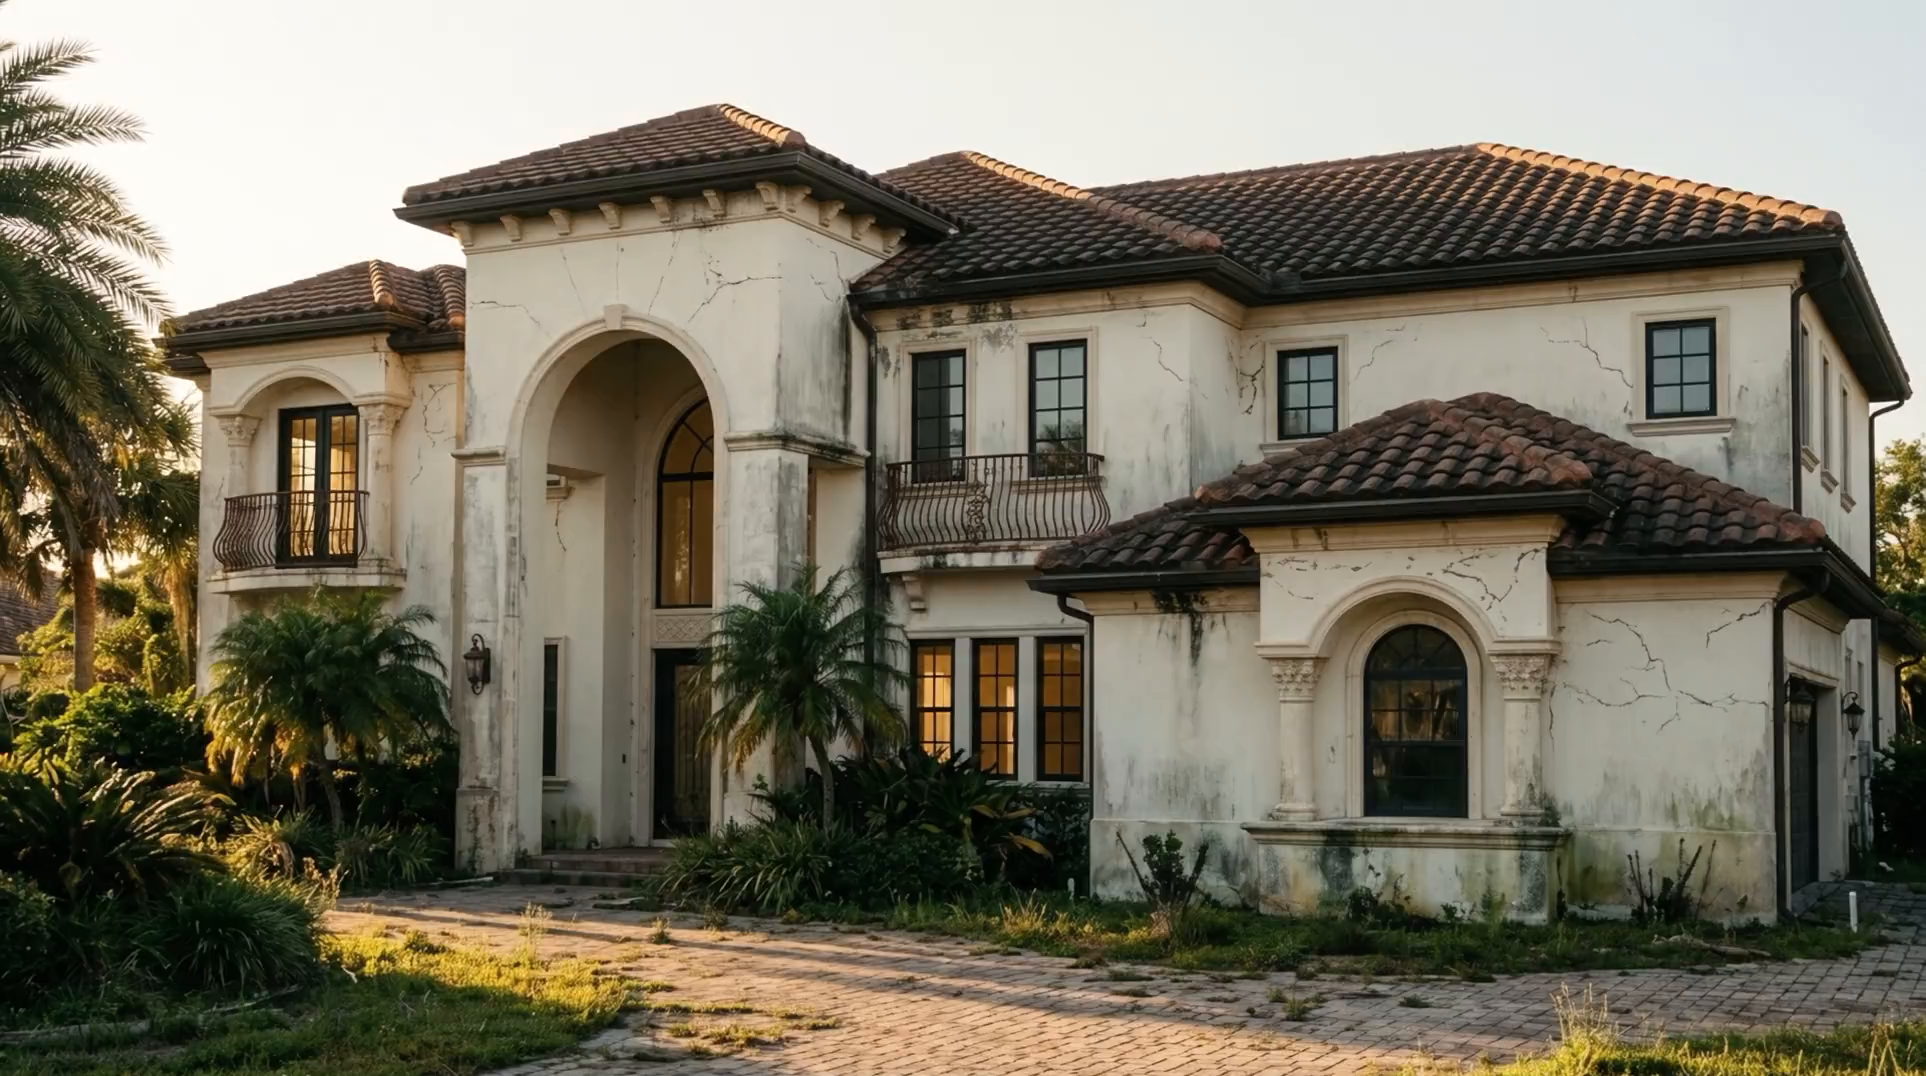
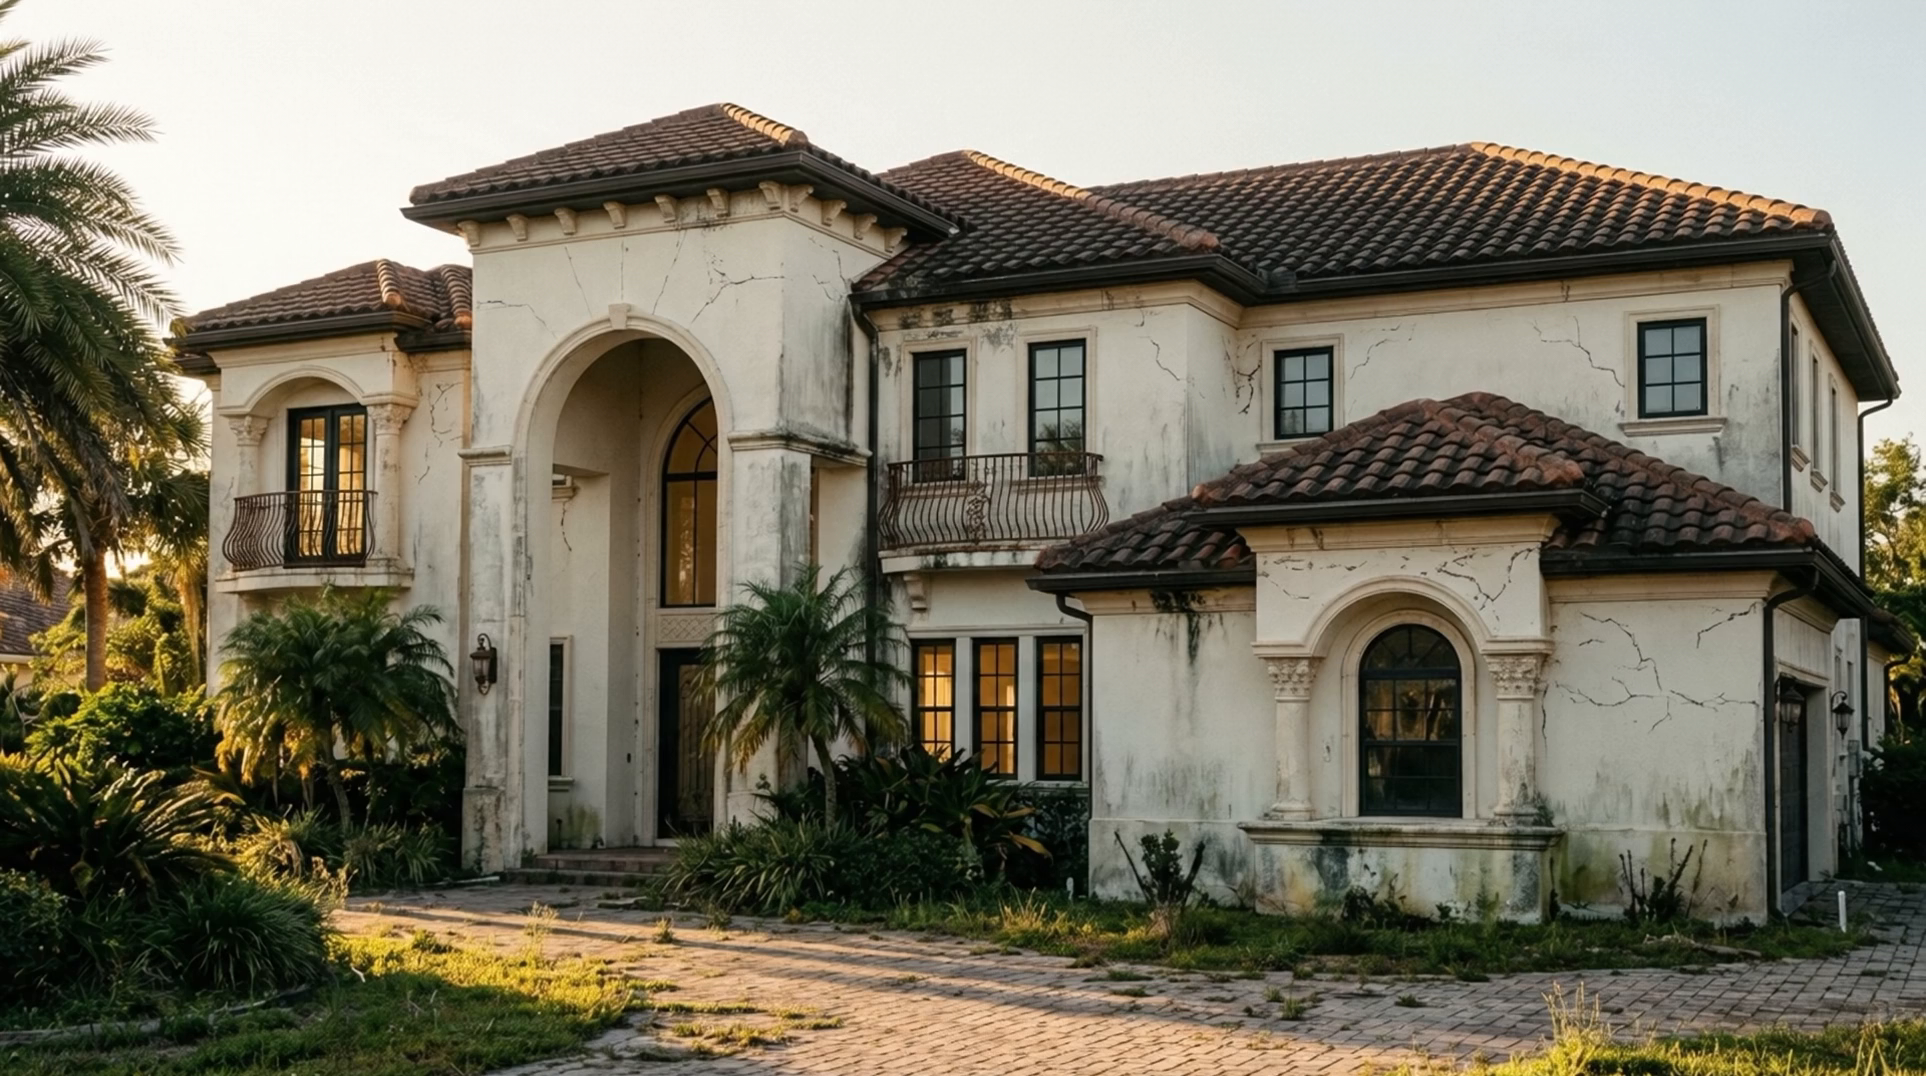
feat(hero & contact): calibrate hero scroll scrub precision and integrate whatsapp estimate flow

diff --git a/src/main.js b/src/main.js
@@ -150,42 +150,40 @@ class MotaExperience {
 
   /**
    * Scroll-Driven Video Scrubbing Engine
-   * Directly drives frame position with sub-frame precision and zero jitter
-   * Configured to start strictly from second 1.0 (startTime = 1.0)
+   * Directly drives frame position with sub-frame precision and zero jitter.
+   * Starts precisely at frame 0.0s (worn house, paused initially).
+   * Scrub transforms facade until 100% finished renovation, with a brief hold before unpinning.
    */
   initHeroVideoScrubber() {
     if (!this.video || !this.heroSection) return;
 
-    const startTime = 1.0; // Start playback at 1 second
+    const startTime = 0.0; // Starts strictly at frame 0.0 (initial worn paint condition)
 
     this.video.muted = true;
     this.video.playsInline = true;
-    
-    // Play briefly then pause at 1.0s to ensure mobile iOS / Android WebKit primes the frame buffer
+    this.video.pause();
+
+    // Prime the video frame buffer at 0.0s to ensure mobile iOS & Android WebKit load frame 0
     const primeVideo = () => {
       this.video.currentTime = startTime;
-      const playPromise = this.video.play();
-      if (playPromise !== undefined) {
-        playPromise.then(() => {
-          this.video.pause();
-          this.video.currentTime = startTime;
-        }).catch(() => {
-          this.video.currentTime = startTime;
-        });
-      }
+      this.video.pause();
     };
     primeVideo();
 
     const setupScrubber = () => {
-      const duration = this.video.duration || 6.04;
-      const scrubRange = Math.max(duration - startTime, 0.1);
+      // Ensure video duration is ready
+      const totalDuration = this.video.duration || 6.04;
+      // End frame safe limit (stopping right at the finished renovated frame, avoiding EOF black glitches)
+      const endTime = Math.max(totalDuration - 0.08, 0.5);
+      const scrubRange = endTime - startTime;
 
-      // Force video to second 1.0 immediately on load
+      // Force video to second 0.0 immediately on load
       this.video.currentTime = startTime;
+      this.video.pause();
 
-      // Responsive scroll pacing: ~200% on mobile for natural fingertip gesture, 350% on desktop
+      // Responsive scroll distance: ~220% on mobile for natural touch gesture, 350% on desktop
       const isMobile = window.innerWidth <= 768;
-      const scrollDistance = isMobile ? '+=200%' : '+=350%';
+      const scrollDistance = isMobile ? '+=220%' : '+=350%';
 
       // Master pinned ScrollTrigger
       ScrollTrigger.create({
@@ -196,7 +194,7 @@ class MotaExperience {
         pinSpacing: true,
         anticipatePin: 1,
         invalidateOnRefresh: true,
-        scrub: isMobile ? 0.08 : 0.15, // Ultra-responsive on mobile touch
+        scrub: isMobile ? 0.08 : 0.15, // Responsive touch & wheel tracking
         onUpdate: (self) => {
           this.targetProgress = self.progress;
 
@@ -238,7 +236,8 @@ class MotaExperience {
 
   /**
    * Ultra-smooth physics-lerped frame synchronization loop
-   * Interpolates from startTime (1.0s) to final frame
+   * Maps progress 0% -> 90% to full video transformation (startTime -> endTime).
+   * Progress 90% -> 100% holds the completed 100% renovated frame before releasing scroll to next section.
    */
   renderScrub(startTime, scrubRange) {
     if (!this.video) return;
@@ -247,8 +246,11 @@ class MotaExperience {
 
     if (Math.abs(delta) > 0.0008) {
       // Smooth exponential approach towards target position
-      this.currentProgress += delta * 0.28;
-      const targetTime = startTime + (this.currentProgress * scrubRange);
+      this.currentProgress += delta * 0.32;
+
+      // Video reaches 100% transformation at 90% scroll, holding the pristine final frame until 100% scroll
+      const normalizedVideoProgress = Math.min(Math.max(this.currentProgress / 0.90, 0), 1);
+      const targetTime = startTime + (normalizedVideoProgress * scrubRange);
 
       if (!this.video.seeking) {
         this.video.currentTime = targetTime;
@@ -257,7 +259,8 @@ class MotaExperience {
       this.rafId = requestAnimationFrame(() => this.renderScrub(startTime, scrubRange));
     } else {
       this.currentProgress = this.targetProgress;
-      const targetTime = startTime + (this.currentProgress * scrubRange);
+      const normalizedVideoProgress = Math.min(Math.max(this.currentProgress / 0.90, 0), 1);
+      const targetTime = startTime + (normalizedVideoProgress * scrubRange);
       this.video.currentTime = targetTime;
       this.isRendering = false;
     }
@@ -453,66 +456,106 @@ class MotaExperience {
   }
 
   /**
-   * 11. Final Contact Estimate Form with Real Client-side Validation & Feedback
+   * 11. Final Contact Estimate Form with Direct WhatsApp Integration
    */
   initContactForm() {
-    const form = document.getElementById('estimate-form');
-    const feedbackBox = document.getElementById('form-feedback-box');
+    const form = document.getElementById('contact-form');
+    const feedbackBox = document.getElementById('contact-feedback');
     if (!form) return;
+
+    const submitBtn = form.querySelector('button[type="submit"]');
 
     form.addEventListener('submit', (e) => {
       e.preventDefault();
 
-      const name = form.querySelector('[name="full_name"]')?.value.trim();
+      const name = form.querySelector('[name="name"]')?.value.trim();
       const email = form.querySelector('[name="email"]')?.value.trim();
       const phone = form.querySelector('[name="phone"]')?.value.trim();
+      const city = form.querySelector('[name="city"]')?.value.trim();
       const propType = form.querySelector('[name="property_type"]')?.value;
       const service = form.querySelector('[name="service"]')?.value;
-      const city = form.querySelector('[name="city"]')?.value.trim();
       const details = form.querySelector('[name="details"]')?.value.trim();
 
-      // Basic client-side validation
+      // Reset previous feedback
+      if (feedbackBox) {
+        feedbackBox.classList.add('hidden');
+        feedbackBox.innerHTML = '';
+      }
+
+      // 1. Client-side Validation: Required fields
       if (!name || !email || !phone || !service) {
         if (feedbackBox) {
-          feedbackBox.className = 'p-4 rounded-xl bg-red-500/10 border border-red-500/30 text-red-300 text-sm mb-5';
-          feedbackBox.innerHTML = '<strong>Please complete all required fields</strong> (Full Name, Email, Phone, and Service Needed).';
+          feedbackBox.className = 'p-4 rounded-2xl bg-red-500/10 border border-red-500/30 text-red-200 text-sm mb-6 flex items-start gap-3';
+          feedbackBox.innerHTML = `
+            <svg class="w-5 h-5 text-red-400 flex-shrink-0 mt-0.5" fill="none" stroke="currentColor" viewBox="0 0 24 24">
+              <path stroke-linecap="round" stroke-linejoin="round" stroke-width="2" d="M12 9v2m0 4h.01m-6.938 4h13.856c1.54 0 2.502-1.667 1.732-3L13.732 4c-.77-1.333-2.694-1.333-3.464 0L3.34 16c-.77 1.333.192 3 1.732 3z"/>
+            </svg>
+            <div>
+              <p class="font-bold text-white text-[15px] mb-0.5">Missing Required Fields</p>
+              <p class="text-white/80">Please complete Full Name, Email, Phone Number, and Service Needed.</p>
+            </div>
+          `;
           feedbackBox.classList.remove('hidden');
         }
         return;
       }
 
-      // Email format validation
+      // 2. Client-side Validation: Valid email format
       const emailRegex = /^[^\s@]+@[^\s@]+\.[^\s@]+$/;
       if (!emailRegex.test(email)) {
         if (feedbackBox) {
-          feedbackBox.className = 'p-4 rounded-xl bg-red-500/10 border border-red-500/30 text-red-300 text-sm mb-5';
-          feedbackBox.innerHTML = '<strong>Invalid Email Address.</strong> Please provide a valid email so we can reach you.';
+          feedbackBox.className = 'p-4 rounded-2xl bg-red-500/10 border border-red-500/30 text-red-200 text-sm mb-6 flex items-start gap-3';
+          feedbackBox.innerHTML = `
+            <svg class="w-5 h-5 text-red-400 flex-shrink-0 mt-0.5" fill="none" stroke="currentColor" viewBox="0 0 24 24">
+              <path stroke-linecap="round" stroke-linejoin="round" stroke-width="2" d="M12 8v4m0 4h.01M21 12a9 9 0 11-18 0 9 9 0 0118 0z"/>
+            </svg>
+            <div>
+              <p class="font-bold text-white text-[15px] mb-0.5">Invalid Email Address</p>
+              <p class="text-white/80">Please enter a valid email address so we can contact you.</p>
+            </div>
+          `;
           feedbackBox.classList.remove('hidden');
         }
         return;
       }
 
-      // Format WhatsApp / Instant Direct Submission as actual working endpoint
-      const message = `*NEW PROJECT ESTIMATE REQUEST*\n\n` +
-        `*Name:* ${name}\n` +
-        `*Email:* ${email}\n` +
-        `*Phone:* ${phone}\n` +
-        `*Property Type:* ${propType || 'Not specified'}\n` +
-        `*Service Needed:* ${service}\n` +
-        `*City / Location:* ${city || 'Florida'}\n` +
-        `*Project Details:* ${details || 'None provided'}`;
+      // 3. Construct WhatsApp Pre-filled Message in American English
+      let message = `*NEW ESTIMATE REQUEST — MOTA PAINTING SERVICES*\n\n` +
+        `Hello! I'd like to request a free estimate for my project.\n\n` +
+        `*CUSTOMER INFORMATION*\n\n` +
+        `Name: ${name}\n` +
+        `Email: ${email}\n` +
+        `Phone: ${phone}\n`;
 
-      const whatsappUrl = `https://wa.me/19548560488?text=${encodeURIComponent(message)}`;
-
-      if (feedbackBox) {
-        feedbackBox.className = 'p-4 rounded-xl bg-[#dfa938]/15 border border-[#dfa938]/40 text-[#f3e5ab] text-sm mb-5';
-        feedbackBox.innerHTML = '<strong>Estimate request generated successfully!</strong> Redirecting your project specifications to Mota Painting Services...';
-        feedbackBox.classList.remove('hidden');
+      if (city) {
+        message += `Location: ${city}\n`;
       }
 
-      setTimeout(() => {
-        window.open(whatsappUrl, '_blank', 'noopener,noreferrer');
-      }, 700);
+      message += `\n*PROJECT INFORMATION*\n\n`;
+
+      if (propType) {
+        message += `Property Type: ${propType}\n`;
+      }
+
+      message += `Service Needed: ${service}\n`;
+
+      if (details) {
+        message += `\n*PROJECT DETAILS*\n${details}\n`;
+      }
+
+      message += `\nThank you! I look forward to hearing from your team.`;
+
+      // Official WhatsApp Click-to-Chat URL
+      const whatsappUrl = `https://wa.me/19548560488?text=${encodeURIComponent(message)}`;
+
+      // 4. Subtle visual feedback on button
+      if (submitBtn) {
+        submitBtn.classList.add('scale-[0.98]');
+        setTimeout(() => submitBtn.classList.remove('scale-[0.98]'), 200);
+      }
+
+      // 5. Open WhatsApp in new tab / application without wiping form fields
+      window.open(whatsappUrl, '_blank', 'noopener,noreferrer');
     });
   }
 

diff --git a/index.html b/index.html
@@ -217,8 +217,6 @@
         webkit-playsinline
         x5-playsinline
         muted
-        autoplay
-        loop
         preload="auto"
         poster="/assets/images/hero-poster.png"
       >
@@ -1653,16 +1651,19 @@
                 <textarea id="contact-details" name="details" rows="3" placeholder="Describe square footage, timeline, or current condition..." class="contact-input w-full px-4 py-3 rounded-xl bg-white/5 border border-white/15 text-white placeholder-white/30 text-sm focus:border-[#dfa938] transition-all"></textarea>
               </div>
 
-              <button type="submit" class="btn-cta-gold w-full h-[52px] rounded-full font-manrope font-bold text-[14px] uppercase tracking-[0.08em] flex items-center justify-center gap-3 mt-4 group">
-                <!-- Paint roller icon -->
-                <svg class="w-4 h-4 flex-shrink-0 text-[#11161d]" viewBox="0 0 24 24" fill="none" stroke="currentColor" stroke-width="2.2" stroke-linecap="round" stroke-linejoin="round">
-                  <rect x="2.5" y="4" width="15" height="5.5" rx="1.5"/>
-                  <path d="M17.5 6.8h1.2a2 2 0 0 1 2 2v2a2 2 0 0 1-2 2H12a2 2 0 0 0-2 2V18"/>
-                  <rect x="8.5" y="17.5" width="3" height="4" rx="1"/>
-                </svg>
-                <span>Request Free Estimate</span>
-                <svg class="w-4 h-4 text-[#11161d] transform group-hover:translate-x-1 transition-transform" fill="none" stroke="currentColor" viewBox="0 0 24 24"><path stroke-linecap="round" stroke-linejoin="round" stroke-width="2.5" d="M14 5l7 7m0 0l-7 7m7-7H3"/></svg>
-              </button>
+              <div>
+                <button type="submit" class="btn-cta-gold w-full h-[52px] rounded-full font-manrope font-bold text-[14px] uppercase tracking-[0.08em] flex items-center justify-center gap-2.5 mt-4 group">
+                  <!-- WhatsApp minimal SVG icon -->
+                  <svg class="w-4 h-4 flex-shrink-0 text-[#11161d]" viewBox="0 0 24 24" fill="currentColor">
+                    <path d="M17.472 14.382c-.297-.149-1.758-.867-2.03-.967-.273-.099-.471-.148-.67.15-.197.297-.767.966-.94 1.164-.173.199-.347.223-.644.075-.297-.15-1.255-.463-2.39-1.475-.883-.788-1.48-1.761-1.653-2.059-.173-.297-.018-.458.13-.606.134-.133.298-.347.446-.52.149-.174.198-.298.298-.497.099-.198.05-.371-.025-.52-.075-.149-.669-1.612-.916-2.207-.242-.579-.487-.5-.669-.51-.173-.008-.371-.01-.57-.01-.198 0-.52.074-.792.372-.272.297-1.04 1.016-1.04 2.479 0 1.462 1.065 2.875 1.213 3.074.149.198 2.096 3.2 5.077 4.487.709.306 1.262.489 1.694.625.712.227 1.36.195 1.871.118.571-.085 1.758-.719 2.006-1.413.248-.694.248-1.289.173-1.413-.074-.124-.272-.198-.57-.347m-5.421 7.403h-.004a9.87 9.87 0 01-5.031-1.378l-.361-.214-3.741.982.998-3.648-.235-.374a9.86 9.86 0 01-1.51-5.26c.001-5.45 4.436-9.884 9.888-9.884 2.64 0 5.122 1.03 6.988 2.898a9.825 9.825 0 012.893 6.994c-.003 5.45-4.437 9.884-9.885 9.884m8.413-18.297A11.815 11.815 0 0012.05 0C5.495 0 .16 5.335.157 11.892c0 2.096.547 4.142 1.588 5.945L.057 24l6.305-1.654a11.882 11.882 0 005.683 1.448h.005c6.554 0 11.89-5.335 11.893-11.893a11.821 11.821 0 00-3.48-8.413z"/>
+                  </svg>
+                  <span>Send via WhatsApp</span>
+                  <span class="transform group-hover:translate-x-1 transition-transform font-bold">→</span>
+                </button>
+                <p class="text-center text-xs text-white/50 mt-2.5 font-manrope">
+                  You'll be redirected to WhatsApp to send your estimate request.
+                </p>
+              </div>
             </form>
 
           </div>
